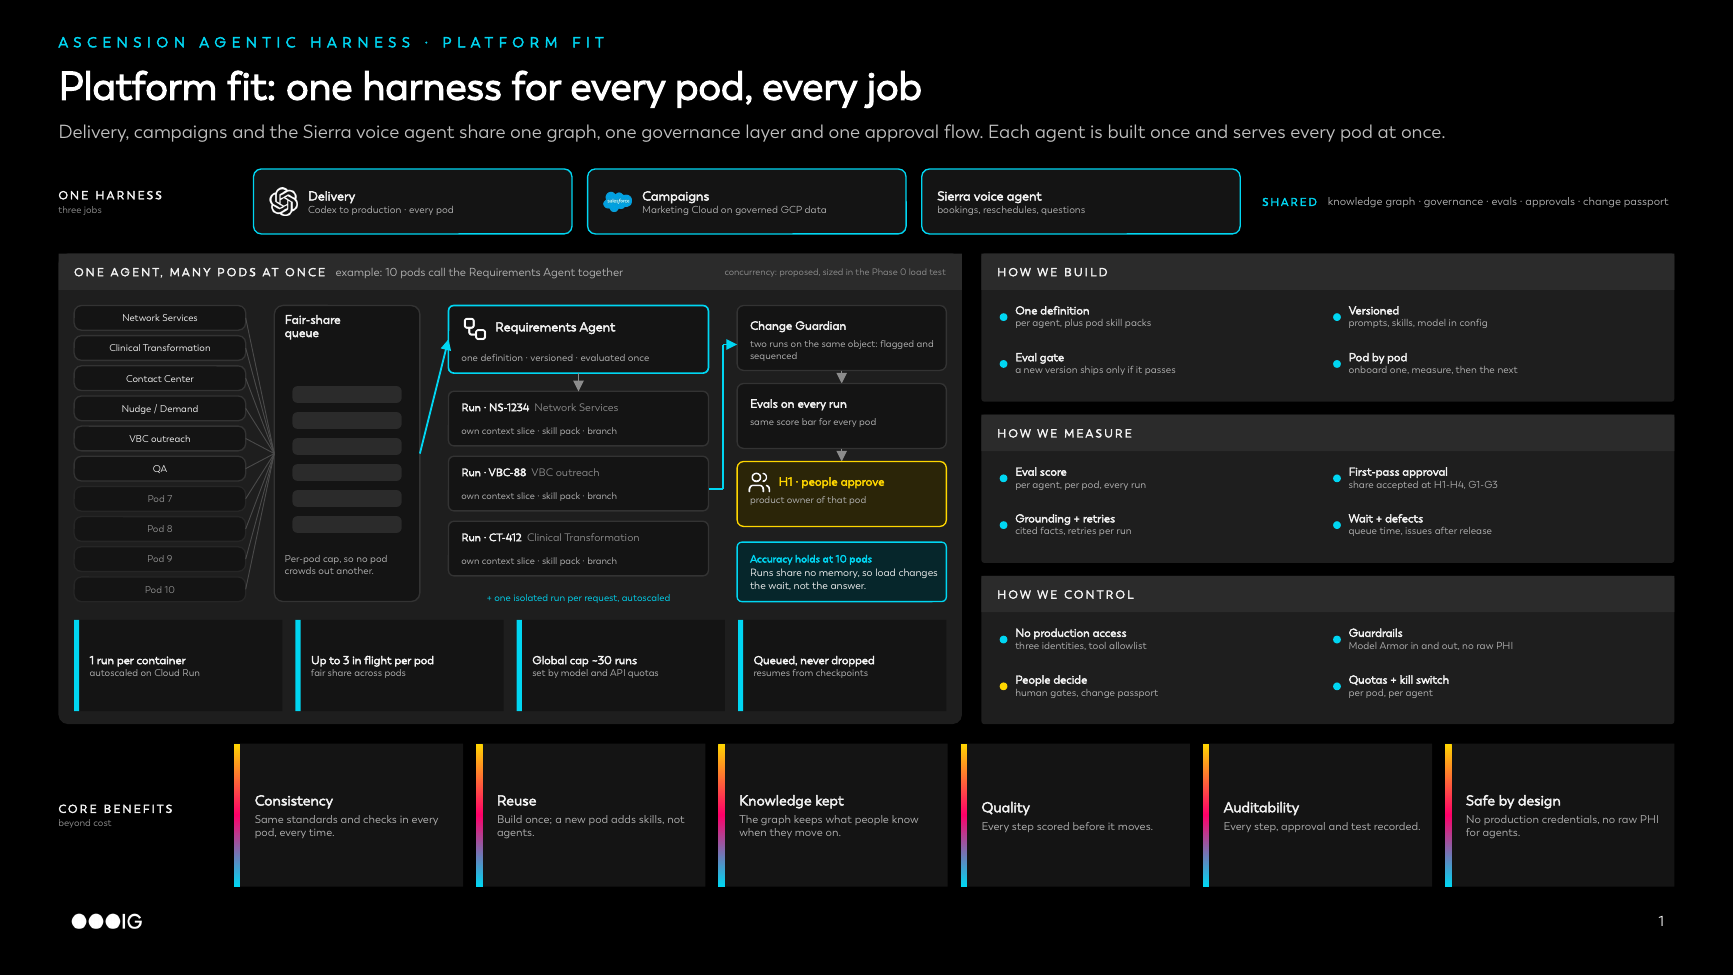
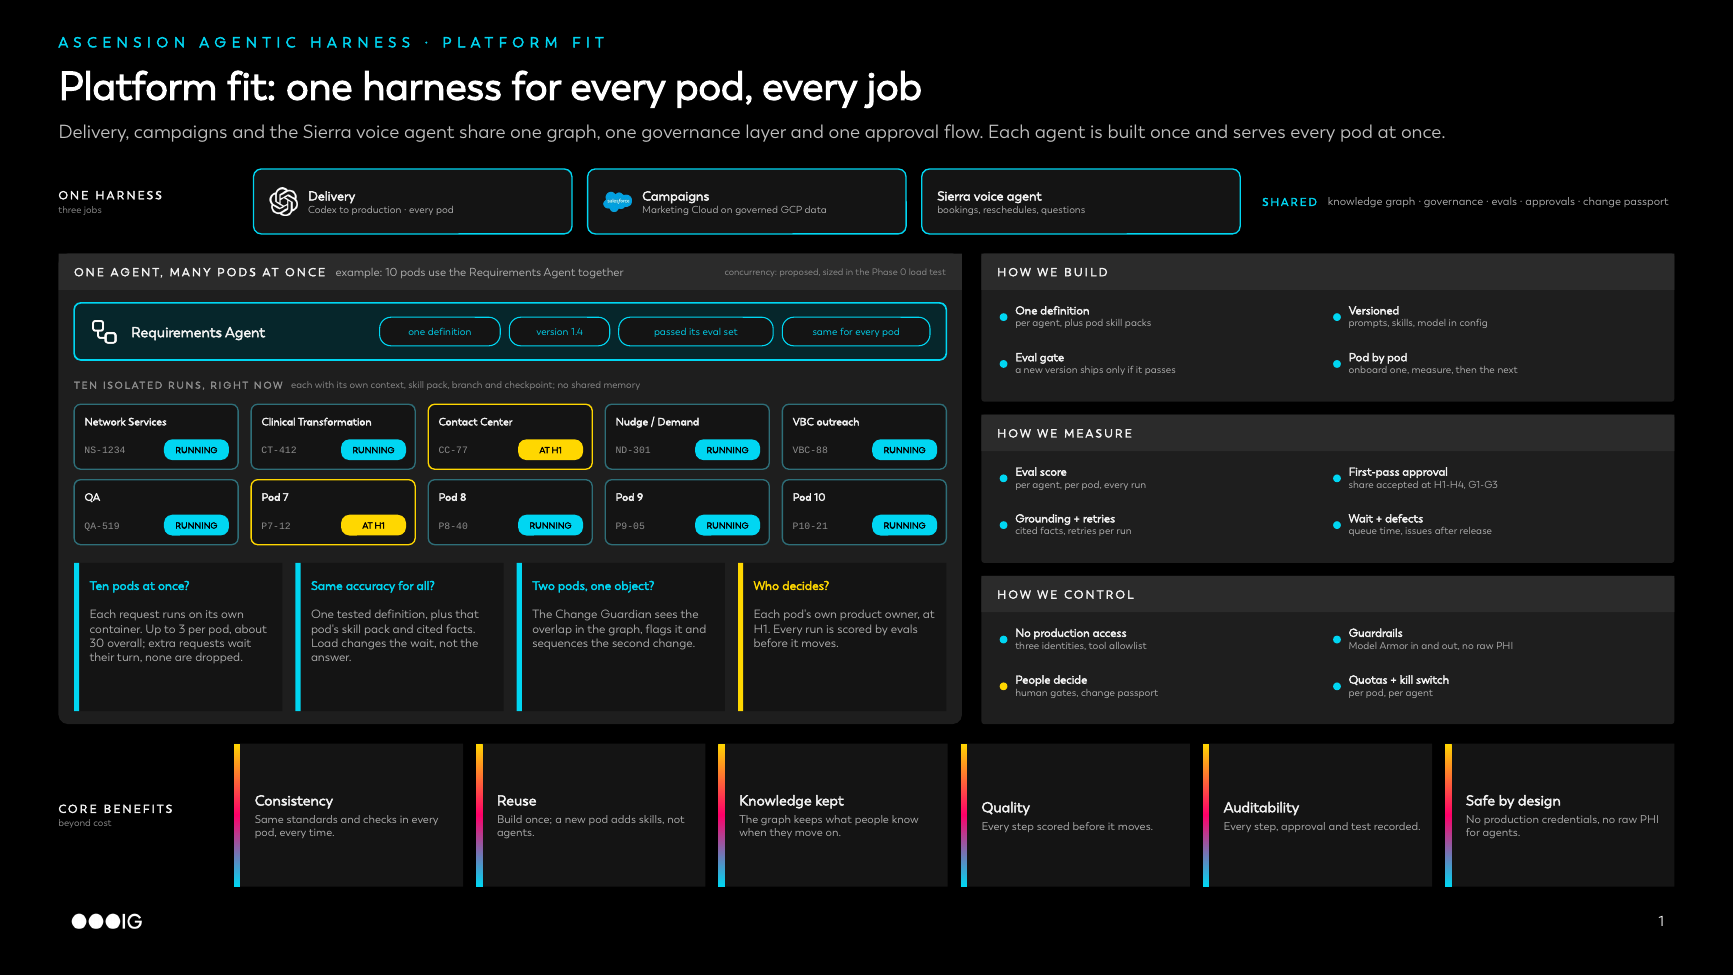
Platform fit preview: replace the flow with ten isolated runs and four client questions
Claude-Session: https://claude.ai/code/session_01Hf94kqMzSofkkrQm7kpNba

Changed region(s): [[0.0311, 0.3077, 0.5606, 0.7077], [0.0311, 0.5846, 0.1557, 0.7077]]

diff --git a/poc/data_harness/platform_fit.py b/poc/data_harness/platform_fit.py
@@ -10,7 +10,7 @@ from pptx import Presentation
 from pptx.enum.shapes import MSO_SHAPE
 from pptx.enum.text import MSO_ANCHOR, PP_ALIGN
 
-from build_data_harness_deck import R, SRC, logo, new_slide, path
+from build_data_harness_deck import R, SRC, logo, new_slide
 from build_mad_ig_deck import CYAN, YELLOW, set_notes
 from footer import fix_footers
 from sierra_voice import CARD, CARD2, EDGE, GATE, T1, T2, T3, gbar
@@ -18,7 +18,6 @@ from story_slides import dark_header
 
 HERE = os.path.dirname(os.path.abspath(__file__))
 OUT = os.path.join(HERE, "build", "platform_fit.pptx")
-GREY = "8C8C8C"
 
 NOTES = """SLIDE: Platform fit   (about 3 minutes)
 
@@ -26,10 +25,9 @@ KEY MESSAGE
 One harness serves every pod and three jobs: delivery, campaigns and the Sierra voice agent. An agent is one versioned definition; every request becomes its own isolated run, so ten pods can use the Requirements Agent at once and each gets the same quality. Load changes the wait, not the answer.
 
 ONE AGENT, MANY PODS
-- Each pod's request goes into a fair-share queue, so no pod can crowd out another.
-- The Requirements Agent is one definition, versioned and evaluated once. Each request starts its own run: its own context slice from the graph, its own pod skill pack, its own branch, its own checkpoint. Runs share no memory.
-- The Change Guardian checks whether two runs touch the same object; if they do, the second is flagged and sequenced. Evals score every run; people approve at H1.
-- Concurrency (proposed, sized in the Phase 0 load test): one run per container, autoscaled; up to 3 runs in flight per pod; a global cap set by the model and API quotas, for example 30; extra requests wait in the queue, nothing is dropped.
+- The Requirements Agent is one definition, versioned, that passed its eval set. It is the same for every pod.
+- Right now ten pods are using it: ten isolated runs, each with its own context slice from the graph, its own pod skill pack, its own branch and checkpoint. They share no memory.
+- Four questions clients ask: ten pods at once (own container per run; up to 3 per pod, about 30 overall; extra requests wait, none dropped; proposed, sized in the Phase 0 load test); same accuracy for all (one tested definition plus the pod's skills and cited facts: load changes the wait, not the answer); two pods on one object (the Change Guardian flags and sequences it); who decides (each pod's product owner at H1, after evals).
 
 BUILD, MEASURE, CONTROL
 - Build: one agent definition plus pod skill packs; versioned prompts, skills and models; a new agent version must pass its eval set before release; pods onboard one at a time.
@@ -40,11 +38,6 @@ CORE BENEFITS
 Consistency, reuse, faster onboarding of a new pod, quality on every step, auditability, and safety by design."""
 
 
-def pill_box(cv, x, y, w, h, t, line=EDGE, fill=CARD, tc=T1, size=6.2, bold=True):
-    cv.rect(x, y, w, h, fill, line, 0.75, R, 0.3)
-    cv.text(x, y, w, h, t, size=size, bold=bold, color=tc, align=PP_ALIGN.CENTER, anchor=MSO_ANCHOR.MIDDLE)
-
-
 def panel(cv, x, y, w, h, title, sub=""):
     cv.rect(x, y, w, h, CARD2, None, shape=R, radius=0.02)
     cv.rect(x, y, w, 0.28, "2B2B2B", None)
@@ -52,14 +45,6 @@ def panel(cv, x, y, w, h, title, sub=""):
                                            ("   " + sub, {"color": T2})] if sub else
                                           [(title, {"bold": True, "track": 120, "color": T1})]],
             size=6.4, anchor=MSO_ANCHOR.MIDDLE)
-
-
-def bullets(cv, x, y, w, items, step=0.27, size=6.1, dot=CYAN):
-    for k, (b, d) in enumerate(items):
-        yy = y + k * step
-        cv.rect(x, yy + 0.08, 0.06, 0.06, dot, None, shape=MSO_SHAPE.OVAL)
-        cv.text(x + 0.12, yy, w - 0.12, step, [[(b, {"bold": True, "color": T1}), ("  " + d, {"color": T2})]],
-                size=size, anchor=MSO_ANCHOR.TOP)
 
 
 def build(prs, layout):
@@ -91,93 +76,64 @@ def build(prs, layout):
     cv.text(sx, ty, 12.88 - sx, th, [[("SHARED  ", {"bold": True, "color": CYAN, "track": 100}),
                                       ("knowledge graph · governance · evals · approvals · change passport",
                                        {"color": T2})]], size=6.2, anchor=MSO_ANCHOR.MIDDLE)
-    # ---------------------------------------------------------------- left: one agent, many pods
+    # ---------------------------------------------------------------- left: one agent, many pods (no flow)
     lx, ly, lw, lh = 0.45, 1.95, 6.95, 3.62
-    panel(cv, lx, ly, lw, lh, "ONE AGENT, MANY PODS AT ONCE", "example: 10 pods call the Requirements Agent together")
-    pods = ["Network Services", "Clinical Transformation", "Contact Center", "Nudge / Demand", "VBC outreach",
-            "QA", "Pod 7", "Pod 8", "Pod 9", "Pod 10"]
-    px, pw, p0, pstep, ph = lx + 0.12, 1.32, ly + 0.4, 0.232, 0.19
-    for k, t in enumerate(pods):
-        pill_box(cv, px, p0 + k * pstep, pw, ph, t, size=5.4, bold=False,
-                 tc=T1 if k < 6 else T3, line=EDGE if k < 6 else "262626")
-    pods_bot = p0 + 9 * pstep + ph
-    # queue
-    qx, qw = px + pw + 0.22, 1.12
-    qy, qh = p0, pods_bot - p0
-    cv.rect(qx, qy, qw, qh, CARD, EDGE, 0.75, R, 0.06)
-    cv.text(qx + 0.08, qy + 0.06, qw - 0.14, 0.4, [[("Fair-share", {})], [("queue", {})]], size=6.8, bold=True,
-            color=T1, line=0.9)
-    for k in range(6):
-        cv.rect(qx + 0.14, qy + 0.62 + k * 0.2, qw - 0.28, 0.13, "2B2B2B", None, shape=R, radius=0.3)
-    cv.text(qx + 0.08, qy + 1.9, qw - 0.14, 0.38, "Per-pod cap, so no pod crowds out another.", size=5.5,
-            color=T2)
-    for k in range(10):
-        yy = p0 + k * pstep + ph / 2
-        cv.arrow(px + pw, yy, qx, qy + qh / 2, "4A4A4A", 0.5, head=False)
-    # agent + isolated runs
-    ax, aw = qx + qw + 0.22, 2.0
-    cv.rect(ax, p0, aw, 0.52, CARD, CYAN, 0.9, R, 0.08)
-    logo(cv, "harness", ax + 0.1, p0 + 0.08, 0.2)
-    cv.text(ax + 0.36, p0 + 0.03, aw - 0.42, 0.26, "Requirements Agent", size=7.2, bold=True, color=T1,
-            anchor=MSO_ANCHOR.MIDDLE)
-    cv.text(ax + 0.1, p0 + 0.3, aw - 0.16, 0.2, "one definition · versioned · evaluated once", size=5.5, color=T2,
-            anchor=MSO_ANCHOR.MIDDLE)
-    cv.arrow(qx + qw, qy + qh / 2, ax, p0 + 0.26, CYAN, 1.0)
-    runs = [("Run · NS-1234", "Network Services"), ("Run · VBC-88", "VBC outreach"), ("Run · CT-412", "Clinical "
-                                                                                          "Transformation")]
-    ry = p0 + 0.66
-    for k, (t, pod) in enumerate(runs):
-        y = ry + k * 0.5
-        cv.rect(ax, y, aw, 0.42, CARD, EDGE, 0.75, R, 0.1)
-        cv.text(ax + 0.1, y + 0.02, aw - 0.16, 0.2, [[(t, {"bold": True, "color": T1}), ("  " + pod,
-                                                                                       {"color": T3})]],
-                size=6.0, anchor=MSO_ANCHOR.MIDDLE)
-        cv.text(ax + 0.1, y + 0.21, aw - 0.16, 0.19, "own context slice · skill pack · branch", size=5.3,
-                color=T2, anchor=MSO_ANCHOR.MIDDLE)
-    cv.text(ax, ry + 1.5, aw, 0.18, "+ one isolated run per request, autoscaled", size=5.4, color=CYAN,
-            align=PP_ALIGN.CENTER, anchor=MSO_ANCHOR.MIDDLE)
-    cv.arrow(ax + aw / 2, p0 + 0.52, ax + aw / 2, ry, GREY, 0.75)
-    # guard, evals, gate
-    gx = ax + aw + 0.22
-    gw = lx + lw - 0.12 - gx
-    steps = [("Change Guardian", "two runs on the same object: flagged and sequenced", EDGE, CARD, T1),
-             ("Evals on every run", "same score bar for every pod", EDGE, CARD, T1),
-             ("H1 · people approve", "product owner of that pod", YELLOW, GATE, YELLOW)]
-    for k, (t, d, ln, fl, tc) in enumerate(steps):
-        y = p0 + k * 0.6
-        cv.rect(gx, y, gw, 0.5, fl, ln, 0.75, R, 0.1)
-        if k == 2:
-            logo(cv, "people", gx + 0.08, y + 0.07, 0.18)
-        cv.text(gx + (0.32 if k == 2 else 0.1), y + 0.04, gw - 0.4, 0.22, t, size=6.6, bold=True, color=tc,
+    panel(cv, lx, ly, lw, lh, "ONE AGENT, MANY PODS AT ONCE", "example: 10 pods use the Requirements Agent together")
+    ix, iw = lx + 0.12, lw - 0.24
+    # the agent: one definition
+    ay, ah = ly + 0.38, 0.44
+    cv.rect(ix, ay, iw, ah, "06262B", CYAN, 0.9, R, 0.12)
+    logo(cv, "harness", ix + 0.12, ay + 0.11, 0.22)
+    cv.text(ix + 0.44, ay, 2.2, ah, "Requirements Agent", size=8, bold=True, color=T1, anchor=MSO_ANCHOR.MIDDLE)
+    tags = ["one definition", "version 1.4", "passed its eval set", "same for every pod"]
+    tx = ix + 2.35
+    for t in tags:
+        w = 0.2 + 0.052 * len(t)
+        cv.rect(tx, ay + 0.11, w, 0.22, CARD, CYAN, 0.6, R, 0.4)
+        cv.text(tx, ay + 0.11, w, 0.22, t, size=5.6, color=CYAN, align=PP_ALIGN.CENTER, anchor=MSO_ANCHOR.MIDDLE)
+        tx += w + 0.07
+    # ten isolated runs, side by side
+    gy = ay + ah + 0.1
+    cv.text(ix, gy, iw, 0.18, [[("TEN ISOLATED RUNS, RIGHT NOW", {"bold": True, "color": T3, "track": 100}),
+                                ("   each with its own context, skill pack, branch and checkpoint; no shared memory",
+                                 {"color": T3})]], size=5.4, anchor=MSO_ANCHOR.MIDDLE)
+    runs = [("Network Services", "NS-1234", "RUNNING"), ("Clinical Transformation", "CT-412", "RUNNING"),
+            ("Contact Center", "CC-77", "AT H1"), ("Nudge / Demand", "ND-301", "RUNNING"),
+            ("VBC outreach", "VBC-88", "RUNNING"), ("QA", "QA-519", "RUNNING"), ("Pod 7", "P7-12", "AT H1"),
+            ("Pod 8", "P8-40", "RUNNING"), ("Pod 9", "P9-05", "RUNNING"), ("Pod 10", "P10-21", "RUNNING")]
+    tw = (iw - 4 * 0.1) / 5
+    th2 = 0.5
+    for k, (pod, sid, st) in enumerate(runs):
+        x = ix + (k % 5) * (tw + 0.1)
+        y = gy + 0.24 + (k // 5) * (th2 + 0.08)
+        gate_ = st == "AT H1"
+        cv.rect(x, y, tw, th2, CARD, YELLOW if gate_ else "2E6E78", 0.75, R, 0.1)
+        cv.text(x + 0.08, y + 0.03, tw - 0.12, 0.2, pod, size=5.9, bold=True, color=T1, anchor=MSO_ANCHOR.MIDDLE)
+        cv.text(x + 0.08, y + 0.26, 0.6, 0.18, sid, size=5.4, color=T3, anchor=MSO_ANCHOR.MIDDLE,
+                font="Courier New")
+        cw2 = 0.5
+        cv.rect(x + tw - cw2 - 0.07, y + 0.27, cw2, 0.16, YELLOW if gate_ else CYAN, None, shape=R, radius=0.4)
+        cv.text(x + tw - cw2 - 0.07, y + 0.27, cw2, 0.16, st, size=4.8, bold=True, color="000000",
+                align=PP_ALIGN.CENTER, anchor=MSO_ANCHOR.MIDDLE)
+    # four questions a client asks, answered
+    qy = gy + 0.24 + 2 * th2 + 0.08 + 0.14
+    qh = ly + lh - 0.1 - qy
+    qa = [("Ten pods at once?", "Each request runs on its own container. Up to 3 per pod, about 30 overall; extra "
+           "requests wait their turn, none are dropped."),
+          ("Same accuracy for all?", "One tested definition, plus that pod's skill pack and cited facts. Load "
+           "changes the wait, not the answer."),
+          ("Two pods, one object?", "The Change Guardian sees the overlap in the graph, flags it and sequences "
+           "the second change."),
+          ("Who decides?", "Each pod's own product owner, at H1. Every run is scored by evals before it moves.")]
+    qw = (iw - 3 * 0.1) / 4
+    for k, (q, ans) in enumerate(qa):
+        x = ix + k * (qw + 0.1)
+        cv.rect(x, qy, qw, qh, CARD, None)
+        cv.rect(x, qy, 0.04, qh, YELLOW if k == 3 else CYAN, None)
+        cv.text(x + 0.12, qy + 0.06, qw - 0.18, 0.22, q, size=6.8, bold=True, color=YELLOW if k == 3 else CYAN,
                 anchor=MSO_ANCHOR.MIDDLE)
-        cv.text(gx + 0.1, y + 0.25, gw - 0.16, 0.24, d, size=5.4, color=T2)
-        if k < 2:
-            cv.arrow(gx + gw / 2, y + 0.5, gx + gw / 2, y + 0.6, GREY, 0.75)
-    path(cv, [(ax + aw, ry + 0.75), (gx - 0.11, ry + 0.75), (gx - 0.11, p0 + 0.3), (gx, p0 + 0.3)], CYAN, 1.0)
-    # accuracy callout
-    cy = p0 + 3 * 0.6 + 0.02
-    cv.rect(gx, cy, gw, pods_bot - cy, "06262B", CYAN, 0.75, R, 0.08)
-    cv.text(gx + 0.1, cy, gw - 0.16, pods_bot - cy, [[("Accuracy holds at 10 pods", {"bold": True,
-                                                                                       "color": CYAN})],
-                                                     [("Runs share no memory, so load changes the wait, not the "
-                                                       "answer.", {"color": T1})]], size=5.8,
-            anchor=MSO_ANCHOR.MIDDLE, after=1)
-    # concurrency facts
-    fy = pods_bot + 0.14
-    fh = ly + lh - 0.1 - fy
-    facts = [("1 run per container", "autoscaled on Cloud Run"),
-             ("Up to 3 in flight per pod", "fair share across pods"),
-             ("Global cap ~30 runs", "set by model and API quotas"),
-             ("Queued, never dropped", "resumes from checkpoints")]
-    fw = (lw - 0.24 - 3 * 0.1) / 4
-    for k, (t, d) in enumerate(facts):
-        x = lx + 0.12 + k * (fw + 0.1)
-        cv.rect(x, fy, fw, fh, CARD, None)
-        cv.rect(x, fy, 0.04, fh, CYAN, None)
-        cv.text(x + 0.12, fy, fw - 0.16, fh, [[(t, {"bold": True, "color": T1})], [(d, {"color": T2,
-                                                                                      "size": 5.4})]],
-                size=6.4, anchor=MSO_ANCHOR.MIDDLE)
-    cv.text(lx + lw - 3.2, ly + 0.02, 3.08, 0.24, "concurrency: proposed, sized in the Phase 0 load test",
+        cv.text(x + 0.12, qy + 0.34, qw - 0.18, qh - 0.38, ans, size=6.6, color=T2)
+    cv.text(lx + lw - 3.0, ly + 0.02, 2.88, 0.24, "concurrency: proposed, sized in the Phase 0 load test",
             size=5.2, color=T3, align=PP_ALIGN.RIGHT, anchor=MSO_ANCHOR.MIDDLE)
     # ---------------------------------------------------------------- right: build, measure, control
     rx, rw = 7.55, 12.88 - 7.55
